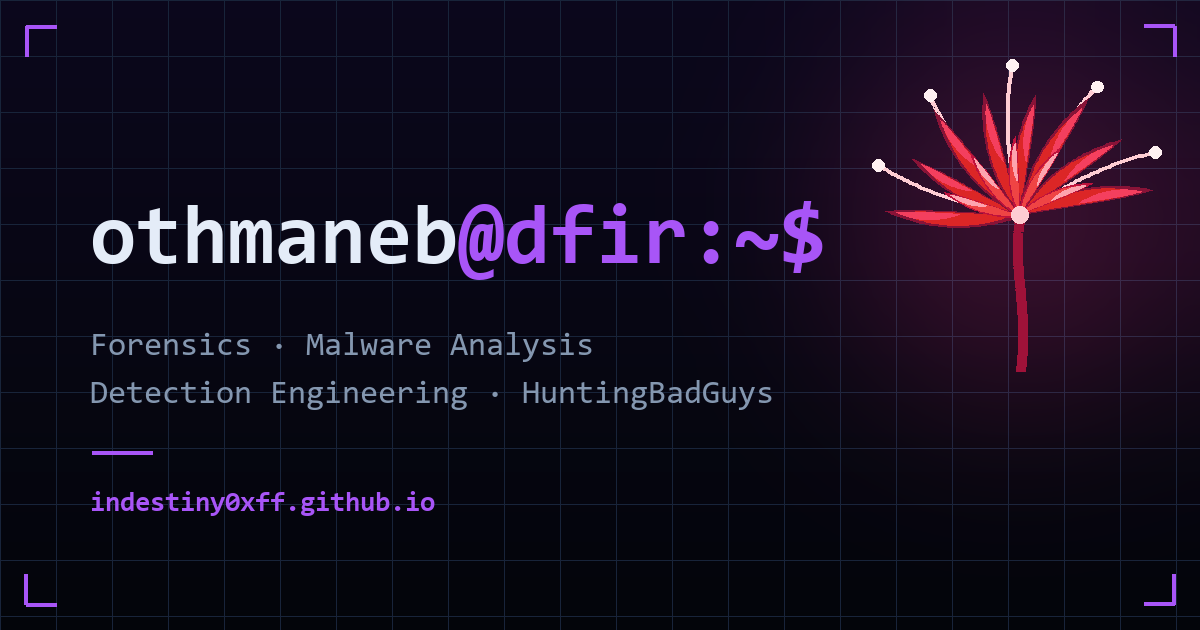
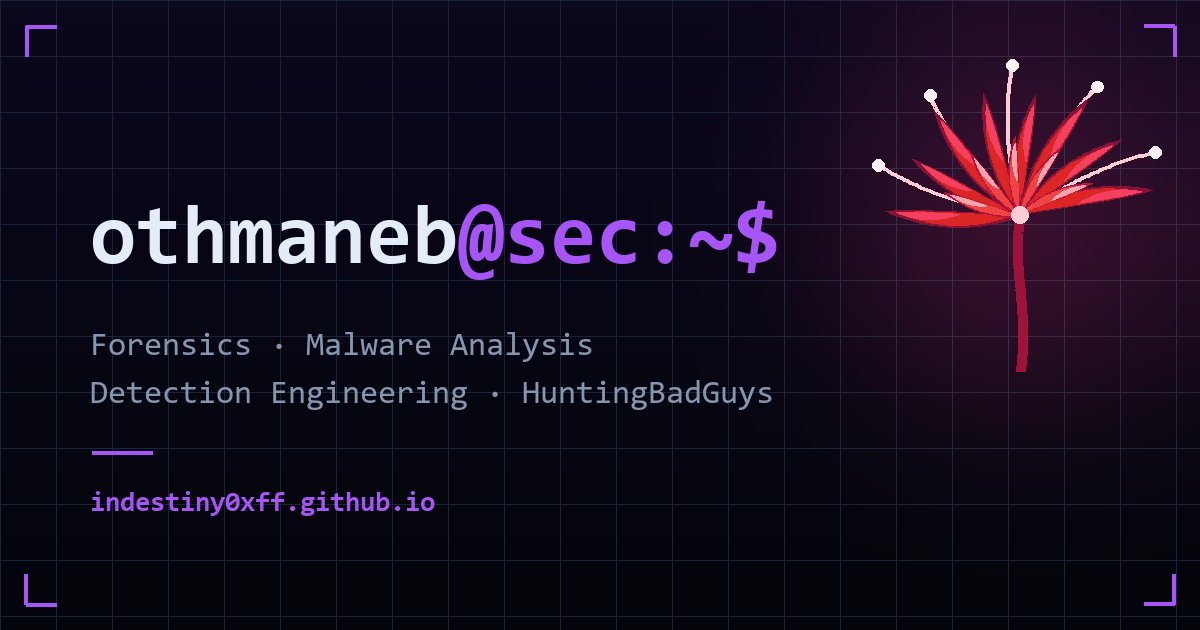
Rename the terminal prompt to othmaneb@sec
The nav logo and the OG image prompt read othmaneb@sec instead of
othmaneb@dfir.

Changed region(s): [[0.4008, 0.3016, 0.7092, 0.4222]]

diff --git a/_layouts/default.html b/_layouts/default.html
@@ -107,7 +107,7 @@
 
   <nav class="nav">
     <div class="nav-inner">
-      <a class="nav-logo" href="{{ '/' | relative_url }}">othmaneb<span class="p">@dfir</span>:~$</a>
+      <a class="nav-logo" href="{{ '/' | relative_url }}">othmaneb<span class="p">@sec</span>:~$</a>
       <button class="nav-burger" id="navBurger" aria-label="Menu">
         <svg viewBox="0 0 24 24" width="20" height="20" fill="none" stroke="currentColor" stroke-width="2" stroke-linecap="round" aria-hidden="true"><path d="M4 7h16M4 12h16M4 17h16"/></svg>
       </button>

diff --git a/scripts/gen_og.py b/scripts/gen_og.py
@@ -1,7 +1,7 @@
 """Generate assets/og.png, the 1200x630 social share image.
 
 Brand: dark background with a faint grid, terminal-style title
-(othmaneb@dfir:~$), dim subtitle, purple corner targeting brackets, and
+(othmaneb@sec:~$), dim subtitle, purple corner targeting brackets, and
 the butterfly from the favicon on the right. Run from the repo root:
 
     python scripts/gen_og.py
@@ -157,7 +157,7 @@ d.ellipse([OX + (32 - r) * F, OY + (32 - r) * F, OX + (32 + r) * F, OY + (32 + r
 x = 90
 d.text((x, 200), "othmaneb", font=title_f, fill=TEXT)
 w = d.textlength("othmaneb", font=title_f)
-d.text((x + w, 200), "@dfir:~$", font=title_f, fill=ACCENT)
+d.text((x + w, 200), "@sec:~$", font=title_f, fill=ACCENT)
 d.text((x, 330), "Forensics · Malware Analysis", font=sub_f, fill=DIM)
 d.text((x, 378), "Detection Engineering · HuntingBadGuys", font=sub_f, fill=DIM)
 d.line([(x + 2, 452), (x + 62, 452)], fill=ACCENT, width=4)
